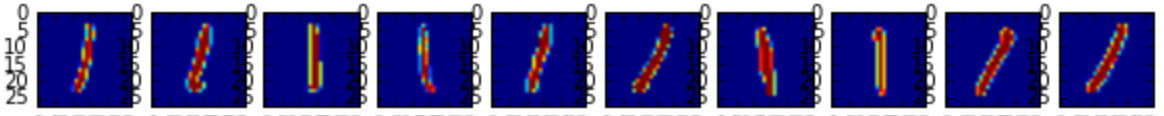
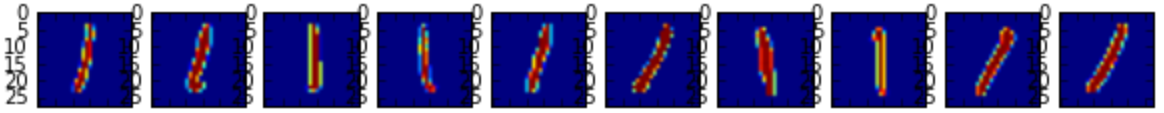
[ci skip] update README img

diff --git a/README.md b/README.md
@@ -39,13 +39,13 @@ The [SMRT example](examples/) compares an imbalanced variant of the MNIST datase
 and SMRT.
 
 __Original__:
-<img src="examples/img/mnist.png" width="1164" height="116" alt="Original"/>
+<img src="examples/img/mnist.png" width="750" alt="Original"/>
 
 __SMOTE__:
-<img src="examples/img/smote.png" width="1164" height="116" alt="SMOTE"/>
+<img src="examples/img/smote.png" width="750" alt="SMOTE"/>
 
 __SMRT__:
-<img src="examples/img/smrt.png" width="1164" height="116" alt="SMRT"/>
+<img src="examples/img/smrt.png" width="750" alt="SMRT"/>
 
 ### Notes
 
